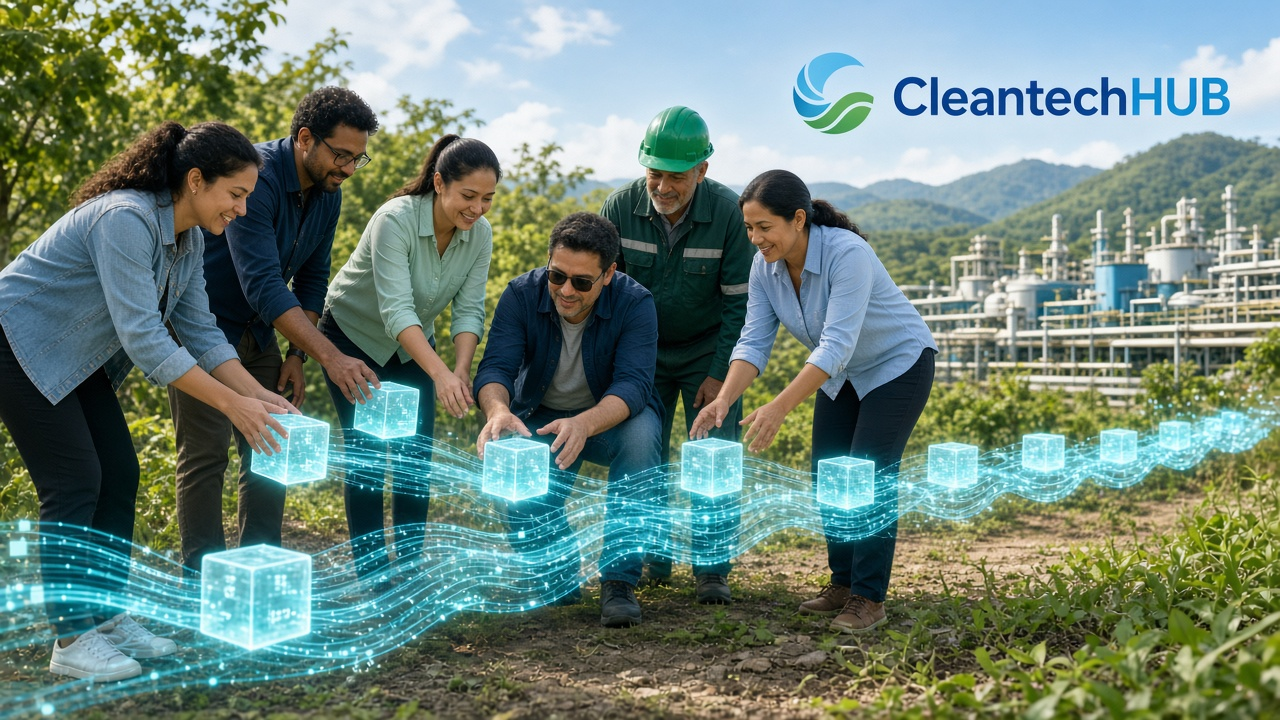
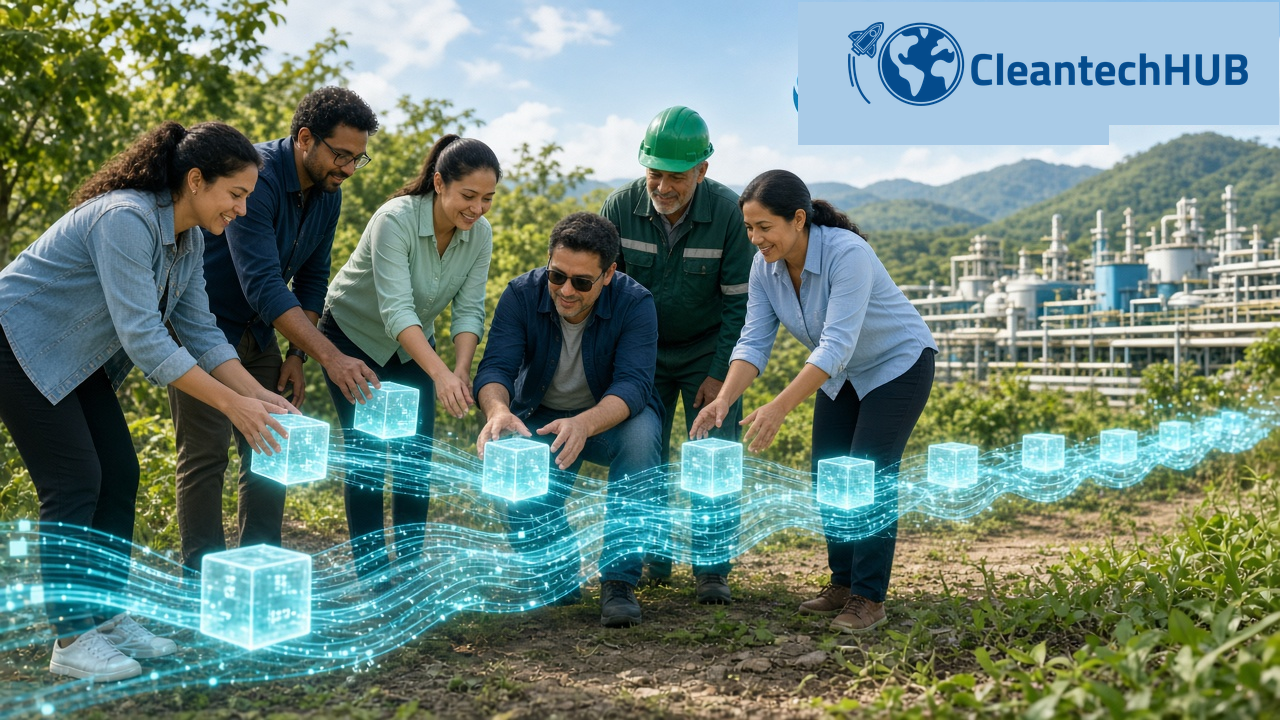
Use official CleantechHUB Drive lockup on Data Town stills
Replace the invented cyan swirl with the globe + rocket mark from
Drive folder LOGO CLEANTECHHUB (search CTH Logo). Paste AZUL OSCURO
on light grounds and BLANCO on the deep-blue wall; set Data Town,
Bucaramanga, lake house, and the tagline in Inter so the model cannot
misspell them.

Changed region(s): [[0.625, 0.0306, 1.0, 0.2139], [0.8125, 0.0, 1.0, 0.0306]]

diff --git a/datatown-video-30s/scripts/composite_official_logos.py b/datatown-video-30s/scripts/composite_official_logos.py
@@ -1,0 +1,187 @@
+#!/usr/bin/env python3
+"""Composite official CleantechHUB lockups and lock spelling on the 30s stills.
+
+Brand sources (Google Drive folder LOGO CLEANTECHHUB,
+id 1qmmGFt2lmATLSp0DAHshwzjoXyvPqSlR):
+  brand/LOGO_AZUL_OSCURO.png  Drive 1h90Y06V66C-OxMBVcSbtSU17s96SN-pa
+  brand/LOGO_BLANCO.png       Drive 1nf_WWiN8HPhfXeZ8bhDPhgz8kGqgeazM  (title: LOGO BLANCO ai.png)
+
+Image models misspell Data Town / Bucaramanga / the tagline and invent swirl marks.
+This script pastes the Drive PNGs and sets type in Inter.
+"""
+
+from __future__ import annotations
+
+import os
+from pathlib import Path
+
+import numpy as np
+from PIL import Image, ImageDraw, ImageFilter, ImageFont
+
+ROOT = Path(__file__).resolve().parents[1]
+BRAND = ROOT / "brand"
+STILLS = ROOT / "stills"
+# Masters live in stills/. Re-running type overlays on them is safe.
+BASE = Path(os.environ.get("CTH_PLATES", STILLS))
+OUT_DIR = Path(os.environ.get("CTH_OUT", STILLS))
+QA_DIR = Path("/tmp/qa5")
+FONT_DIR = Path("/usr/share/fonts/truetype/macos")
+
+DEEP_BLUE = (12, 73, 138)  # #0C498A
+TENT_BLUE = (9, 64, 152)
+WALL_BLUE = (0, 45, 122)
+DOME_BLUE = (44, 103, 181)
+CYAN = (178, 238, 250)  # #B2EEFA
+WHITE = (255, 255, 255)
+PLAQUE = (252, 252, 253)
+
+
+def trim_rgba(im: Image.Image) -> Image.Image:
+    a = np.array(im)
+    ys, xs = np.where(a[:, :, 3] > 12)
+    return im.crop((int(xs.min()), int(ys.min()), int(xs.max()) + 1, int(ys.max()) + 1))
+
+
+def scale_w(im: Image.Image, width: int) -> Image.Image:
+    h = max(1, round(im.height * width / im.width))
+    return im.resize((width, h), Image.Resampling.LANCZOS)
+
+
+def paste_logo(base: Image.Image, logo: Image.Image, xy: tuple[int, int], width: int) -> tuple[int, int]:
+    lg = scale_w(trim_rgba(logo), width)
+    base.paste(lg, xy, lg)
+    return lg.size
+
+
+def font(name: str, size: int) -> ImageFont.FreeTypeFont:
+    return ImageFont.truetype(str(FONT_DIR / name), size)
+
+
+def _clone_sky_strip(im: Image.Image, src: tuple[int, int, int, int], dest: tuple[int, int, int, int]) -> None:
+    """Stretch a real sky patch over a leftover plate without flattening the gradient."""
+    patch = im.crop(src).resize((dest[2] - dest[0], dest[3] - dest[1]), Image.Resampling.LANCZOS)
+    im.paste(patch, (dest[0], dest[1]))
+
+
+def scene_01(azul: Image.Image) -> Image.Image:
+    """Official dark-blue lockup already sits on the sky plate — keep it."""
+    return Image.open(BASE / "01-origen.png").convert("RGB")
+
+
+def _paint_light_on_dome(im: Image.Image) -> None:
+    """Replace leftover white wordmark pixels on the blue dome only."""
+    arr = np.array(im)
+    y0, y1, x0, x1 = 120, 200, 1032, 1225
+    patch = arr[y0:y1, x0:x1]
+    r, g, b = patch[:, :, 0], patch[:, :, 1], patch[:, :, 2]
+    # Wordmark is pale on mid-blue dome. Sky is brighter and more cyan — skip it.
+    light = (r > 170) & (g > 170) & (b > 170)
+    leftover = ((r > 150) & (g > 150) & (b > 180) & (r + g + b > 520)) | light
+    # Restrict to the lower dome band so we do not paint clouds.
+    yy = np.arange(y0, y1)[:, None]
+    on_dome = yy >= 138
+    mask = leftover & on_dome
+    # Dilate a little so antialiased edges go too.
+    m = Image.fromarray((mask.astype(np.uint8) * 255)).filter(ImageFilter.MaxFilter(5))
+    mask = np.array(m) > 127
+    patch[mask, :3] = np.array(DOME_BLUE, dtype=np.uint8)
+    arr[y0:y1, x0:x1] = patch
+    im.paste(Image.fromarray(arr))
+
+
+def scene_02(azul: Image.Image, blanco: Image.Image) -> Image.Image:
+    im = Image.open(BASE / "02-town.png").convert("RGBA")
+    draw = ImageDraw.Draw(im)
+
+    # Keep the official white lockup already on the valance; replace misspelled type.
+    draw.rectangle((698, 155, 1048, 258), fill=TENT_BLUE)
+    draw.rectangle((688, 172, 691, 248), fill=WHITE)
+    draw.text((708, 172), "Data Town", font=font("Inter-SemiBold.ttf", 30), fill=WHITE)
+    draw.text((708, 212), "Bucaramanga", font=font("Inter-SemiBold.ttf", 26), fill=WHITE)
+
+    # Restore sky where a prior pass painted a blue rectangle into the air.
+    _clone_sky_strip(im, (980, 70, 1100, 155), (1168, 70, 1280, 155))
+    _paint_light_on_dome(im)
+
+    # Counter already has the official dark lockup; leave it.
+    return im.convert("RGB")
+
+
+def scene_03(_azul: Image.Image) -> Image.Image:
+    # Sign already carries the Drive lockup.
+    return Image.open(BASE / "03-lake.png").convert("RGB")
+
+
+def scene_04(_azul: Image.Image) -> Image.Image:
+    im = Image.open(BASE / "04-lakehouse.png").convert("RGBA")
+    draw = ImageDraw.Draw(im)
+    draw.rectangle((1134, 288, 1264, 330), fill=PLAQUE)
+    draw.text((1144, 296), "lake house", font=font("Inter-Medium.ttf", 16), fill=DEEP_BLUE)
+    return im.convert("RGB")
+
+
+def scene_05(_azul: Image.Image) -> Image.Image:
+    return Image.open(BASE / "05-lab.png").convert("RGB")
+
+
+def scene_06(_azul: Image.Image, _blanco: Image.Image) -> Image.Image:
+    """Keep the Drive white lockup; replace Inspirera / Acttúa / Weeket in Inter."""
+    im = Image.open(BASE / "06-climate-week.png").convert("RGBA")
+    draw = ImageDraw.Draw(im)
+    draw.rectangle((360, 268, 920, 352), fill=WALL_BLUE)
+
+    tag = "Inspira. Actúa. Transforma."
+    f_tag = font("Inter-SemiBold.ttf", 28)
+    f_week = font("Inter-Medium.ttf", 22)
+    bbox = draw.textbbox((0, 0), tag, font=f_tag)
+    tw = bbox[2] - bbox[0]
+    tx = 640 - tw // 2
+    ty = 276
+    draw.text((tx, ty), tag, font=f_tag, fill=WHITE)
+    draw.rectangle((tx, ty + 36, tx + tw, ty + 38), fill=CYAN)
+    week = "Climate Data Week"
+    ww = draw.textbbox((0, 0), week, font=f_week)[2]
+    draw.text((640 - ww // 2, ty + 44), week, font=f_week, fill=WHITE)
+    return im.convert("RGB")
+
+
+def main() -> None:
+    OUT_DIR.mkdir(parents=True, exist_ok=True)
+    QA_DIR.mkdir(parents=True, exist_ok=True)
+    STILLS.mkdir(parents=True, exist_ok=True)
+    azul = Image.open(BRAND / "LOGO_AZUL_OSCURO.png").convert("RGBA")
+    blanco = Image.open(BRAND / "LOGO_BLANCO.png").convert("RGBA")
+
+    frames = {
+        "01-origen.png": scene_01(azul),
+        "02-town.png": scene_02(azul, blanco),
+        "03-lake.png": scene_03(azul),
+        "04-lakehouse.png": scene_04(azul),
+        "05-lab.png": scene_05(azul),
+        "06-climate-week.png": scene_06(azul, blanco),
+    }
+    crops = {
+        "01-origen.png": (780, 0, 1280, 180),
+        "02-town.png": (300, 120, 1100, 280),
+        "03-lake.png": (520, 260, 860, 400),
+        "04-lakehouse.png": (1050, 180, 1280, 480),
+        "05-lab.png": (0, 0, 700, 160),
+        "06-climate-week.png": (250, 40, 1030, 360),
+    }
+    extra = {
+        "02-building.png": ("02-town.png", (1080, 80, 1280, 220)),
+        "06-tagline.png": ("06-climate-week.png", (350, 250, 950, 370)),
+    }
+    for name, im in frames.items():
+        dest = OUT_DIR / name
+        im.save(dest, "PNG")
+        im.save(STILLS / name, "PNG")
+        im.crop(crops[name]).save(QA_DIR / f"crop-{name}")
+        print(f"wrote {dest} {im.size}")
+    for qa_name, (src, box) in extra.items():
+        frames[src].crop(box).save(QA_DIR / qa_name)
+        print(f"wrote qa {qa_name}")
+
+
+if __name__ == "__main__":
+    main()

diff --git a/datatown-video-30s/IMAGE_PROMPTS.md b/datatown-video-30s/IMAGE_PROMPTS.md
@@ -2,6 +2,8 @@
 
 All generated stills are **16:9 / 1280×720**. References: `stills/01-origen.png`, `stills/02-town.png`.
 
+**Brand mark:** paste the official Drive lockup (globe + orbiting rocket + CleantechHUB) from `brand/`. Do **not** generate a cyan swirl or a new globe. Search Drive for `CTH Logo` / folder `LOGO CLEANTECHHUB`. `LOGO_AZUL_OSCURO.png` on light grounds; `LOGO_BLANCO.png` on deep-blue tent/wall. Plot-critical type (Data Town, Bucaramanga, lake house, Inspira. Actúa. Transforma., Climate Data Week) is set in Inter — the image model misspells all of them.
+
 ## Palette lock (prepend to every prompt)
 
 ```
@@ -41,8 +43,8 @@ PEOPLE: Mixed gender, ages 30-55, Latin American appearance. Business-casual: de
 One person in a forest-green (#669348) polo. Warm smiles, walking and talking, looking
 at the luminous lake.
 
-BRAND: Small CleantechHUB logo (cyan swirl mark + wordmark in deep blue) on a simple
-white wayfinding sign by the path.
+BRAND: Leave a blank white wayfinding sign by the path. The official globe+rocket
+lockup is pasted in post from brand/LOGO_AZUL_OSCURO.png. Do not draw a swirl or a new globe.
 
 [PALETTE LOCK]
 
@@ -70,9 +72,8 @@ and white shirts, forest-green accents, white sneakers. Latin American, mixed
 gender, ages 30-55.
 
 DETAILS: A few translucent white-cyan holographic data cubes float gently near the
-shoreline. Small white plaque by the door with CleantechHUB cyan-swirl logo and
-the words "lake house" in clean sans-serif deep blue. Bright midday sun, blue sky
-with a few white clouds.
+shoreline. Small blank white plaque by the door — official lockup and the words
+"lake house" are composited in post. Bright midday sun, blue sky with a few white clouds.
 
 [PALETTE LOCK]
 
@@ -90,10 +91,10 @@ Take 1 had a black TV bezel (palette violation). Take 2 prompt:
 Photorealistic 16:9 bright Data Lab, same optimistic CleantechHUB editorial style
 as the attached images.
 
-Keep the successful composition: facilitator in deep-blue shirt with cyan swirl
-logo pointing at a wall display; 4 colleagues around a white table; glowing
-translucent cyan-white holographic cubes connected by light paths on the table;
-Andean hills through large windows; CleantechHUB wordmark on the wall.
+Keep the successful composition: facilitator in deep-blue shirt pointing at a
+wall display; 4 colleagues around a white table; glowing translucent cyan-white
+holographic cubes connected by light paths on the table; Andean hills through
+large windows. Leave the upper wall blank for the official AZUL OSCURO lockup.
 
 CRITICAL FIX: The display is a frameless or white/light-cyan framed LED wall.
 NO black bezel, NO black rectangle, NO dark frame. Dashboard background is white
@@ -121,10 +122,10 @@ Exact same photorealistic 16:9 outdoor plaza scene as the attached tent / gather
 stills: palms, Andean hills, checkered pale-blue plaza, white CleantechHUB counter,
 diverse Latin American professionals in deep-blue and mint jackets.
 
-The solid Deep Blue #0C498A wall should show ONLY the cyan swirl CleantechHUB logo
-and the single wordmark "CleantechHUB" in white. Leave a large empty deep-blue area
-in the lower half of the wall. Do NOT write Inspira, Actúa, Transforma, Climate,
-Data, Week, or any other slogan.
+The solid Deep Blue #0C498A wall should be empty in the title block. Do NOT draw a
+logo, swirl, or wordmark — paste brand/LOGO_BLANCO.png in post. Leave a large empty
+deep-blue area in the lower half of the wall. Do NOT write Inspira, Actúa,
+Transforma, Climate, Data, Week, or any other slogan.
 
 Keep the light-green and light-cyan diagonal accent at the bottom-right of the wall.
 
@@ -144,5 +145,6 @@ Spelling lock: **Inspira** (7 letters) · **Actúa** (one ú) · **Transforma** 
 ## Regeneration notes
 
 - Always attach 01 + 02 as style refs.
-- If type is plot-critical, generate a blank plate and set type in post (see 06).
+- Always attach `brand/LOGO_AZUL_OSCURO.png` as a logo reference, then **still paste** the Drive PNG. Generated globes are not the brand mark.
+- If type is plot-critical, generate a blank plate and set type in post (see 06). Run `scripts/composite_official_logos.py`.
 - Reject any frame that introduces red, orange, purple, or a black UI chrome.

diff --git a/datatown-video-30s/README.md b/datatown-video-30s/README.md
@@ -2,16 +2,18 @@
 
 CleantechHUB × Cámara Bucaramanga workshop film. **Parking only** — not a product merge. Do not email or send Cámara from this desk.
 
-## Status — stills ready, VO/motion not started
+## Status — stills ready (official lockup), VO/motion not started
+
+Official globe + orbiting-rocket lockup from Drive folder **LOGO CLEANTECHHUB** (search `CTH Logo`). Files in `brand/`. Image models do not copy the mark faithfully — `scripts/composite_official_logos.py` pastes the Drive PNGs and sets plot-critical type in Inter.
 
 | Scene | File | State |
 |-------|------|--------|
-| 01 Origen | `stills/01-origen.png` | Copied from uploads |
-| 02 Data Town | `stills/02-town.png` | Copied from uploads |
-| 03 Data lake | `stills/03-lake.png` | Generated (16:9, palette-locked) |
-| 04 Lake house | `stills/04-lakehouse.png` | Generated (16:9, palette-locked) |
-| 05 Data Lab | `stills/05-lab.png` | Generated take 2 (white dashboard frame) |
-| 06 Climate Data Week | `stills/06-climate-week.png` | Generated plate + Inter overlay for exact tagline |
+| 01 Origen | `stills/01-origen.png` | Official AZUL OSCURO lockup on sky |
+| 02 Data Town | `stills/02-town.png` | Official lockup on tent + counter; Inter “Data Town / Bucaramanga” |
+| 03 Data lake | `stills/03-lake.png` | Official lockup on wayfinding sign |
+| 04 Lake house | `stills/04-lakehouse.png` | Official lockup + Inter “lake house” |
+| 05 Data Lab | `stills/05-lab.png` | Official lockup on lab wall |
+| 06 Climate Data Week | `stills/06-climate-week.png` | Official BLANCO lockup + Inter tagline |
 
 All six masters are **1280×720 / 16:9**. Upscale to 1920×1080 in the edit.
 

diff --git a/datatown-video-30s/brand/README.md b/datatown-video-30s/brand/README.md
@@ -1,0 +1,17 @@
+# Official CleantechHUB lockups
+
+Do not generate the mark. Paste these Drive PNGs.
+
+**Folder:** [LOGO CLEANTECHHUB](https://drive.google.com/drive/folders/1qmmGFt2lmATLSp0DAHshwzjoXyvPqSlR) (`1qmmGFt2lmATLSp0DAHshwzjoXyvPqSlR`)
+
+| File | Drive title / id | Use |
+|------|------------------|-----|
+| `LOGO_AZUL_OSCURO.png` | LOGO AZUL OSCURO.png · `1h90Y06V66C-OxMBVcSbtSU17s96SN-pa` | Light grounds (sky, white signs, counters) |
+| `LOGO_BLANCO.png` | LOGO BLANCO ai.png · `1nf_WWiN8HPhfXeZ8bhDPhgz8kGqgeazM` | Deep-blue walls and tent valance |
+| `LOGO_AZUL_CLARO.png` | LOGO AZUL CLAROai.png · `1Dk30sHerViQI4TnE9LNxCTRWWVz9HTke` | Spare light-blue horizontal |
+| `LOGO_CTH.png` | LOGO CTH.png · stacked COL variant | Colombia lockup (not used on these stills) |
+| `LOGO_CTH_COL_CMYK.png` | same stacked COL file | Same as `LOGO_CTH.png` |
+
+Search terms that find the kit: `CTH Logo`, `LOGO CTH`, `LOGO CLEANTECHHUB`.
+
+The current horizontal lockup is **globe + orbiting rocket + CleantechHUB**. The cyan swirl used on the first still pack is not the brand mark.

diff --git a/datatown-video-30s/EDIT_BRIEF.md b/datatown-video-30s/EDIT_BRIEF.md
@@ -3,6 +3,7 @@
 **Workshop:** Thu 17 Sep 2026 · Clúster Energía / Data Town · Bucaramanga  
 **Format:** 16:9 · 30s · Spanish VO · no talking-head presenter  
 **Stills:** `stills/01-origen.png` … `stills/06-climate-week.png`  
+**Lockup:** official Drive globe + rocket from `brand/` (search Drive `CTH Logo`). Not the cyan swirl.  
 **Motion:** Kling or Runway on beats 03 / 05 / 06 only. Do **not** use HeyGen (no avatar, no talking-head).  
 **Palette lock:** Deep Blue `#0C498A` · Light Cyan `#B2EEFA` · Light Green `#9DC384` · Forest Green `#669348` · Sky Blue `#69B5FA`. No black grades, no red/orange/purple.
 
